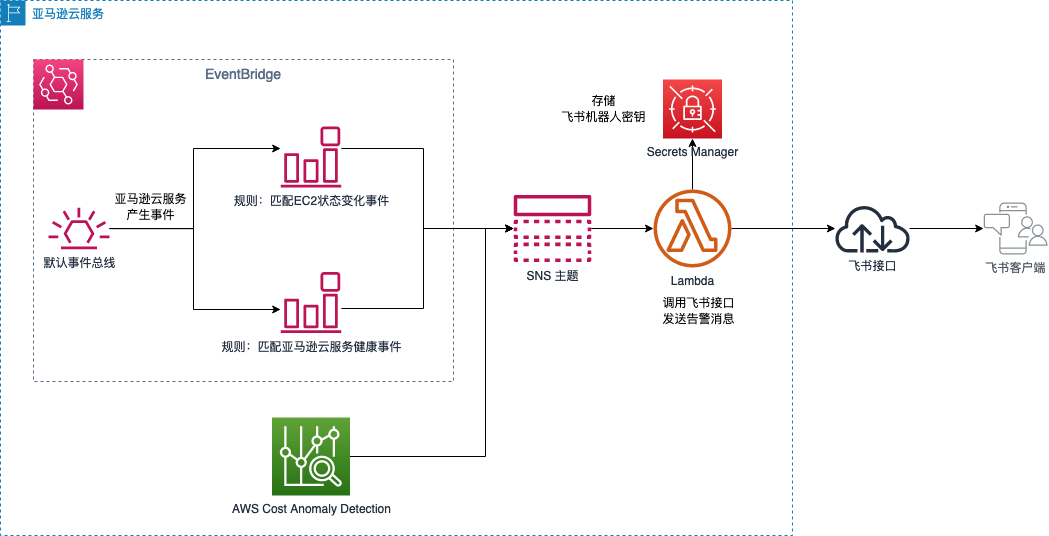
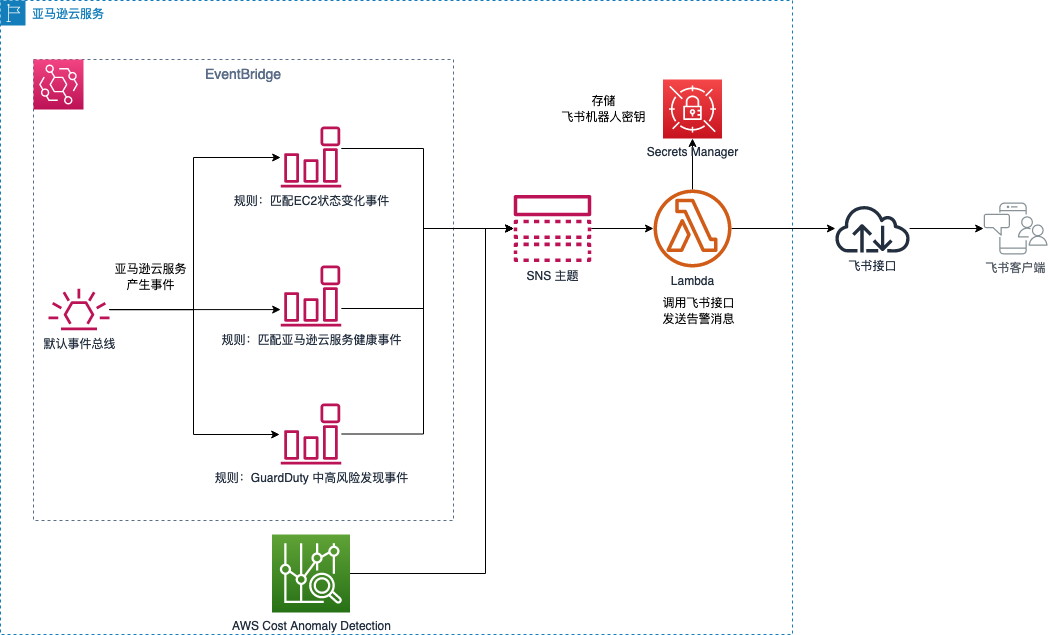
Add integration with Amazon GuardDuty.

diff --git a/README.md b/README.md
@@ -48,6 +48,9 @@
 2022-10-16:
 添加 AWS Cost Anomaly Detection 集成。
 
+2022-11-2:
+添加 Amazon GuardDuty 集成。
+
 ## 附录
 
 [AWS博客：基于AWS Serverless 一键启用微信/钉钉告警通知
